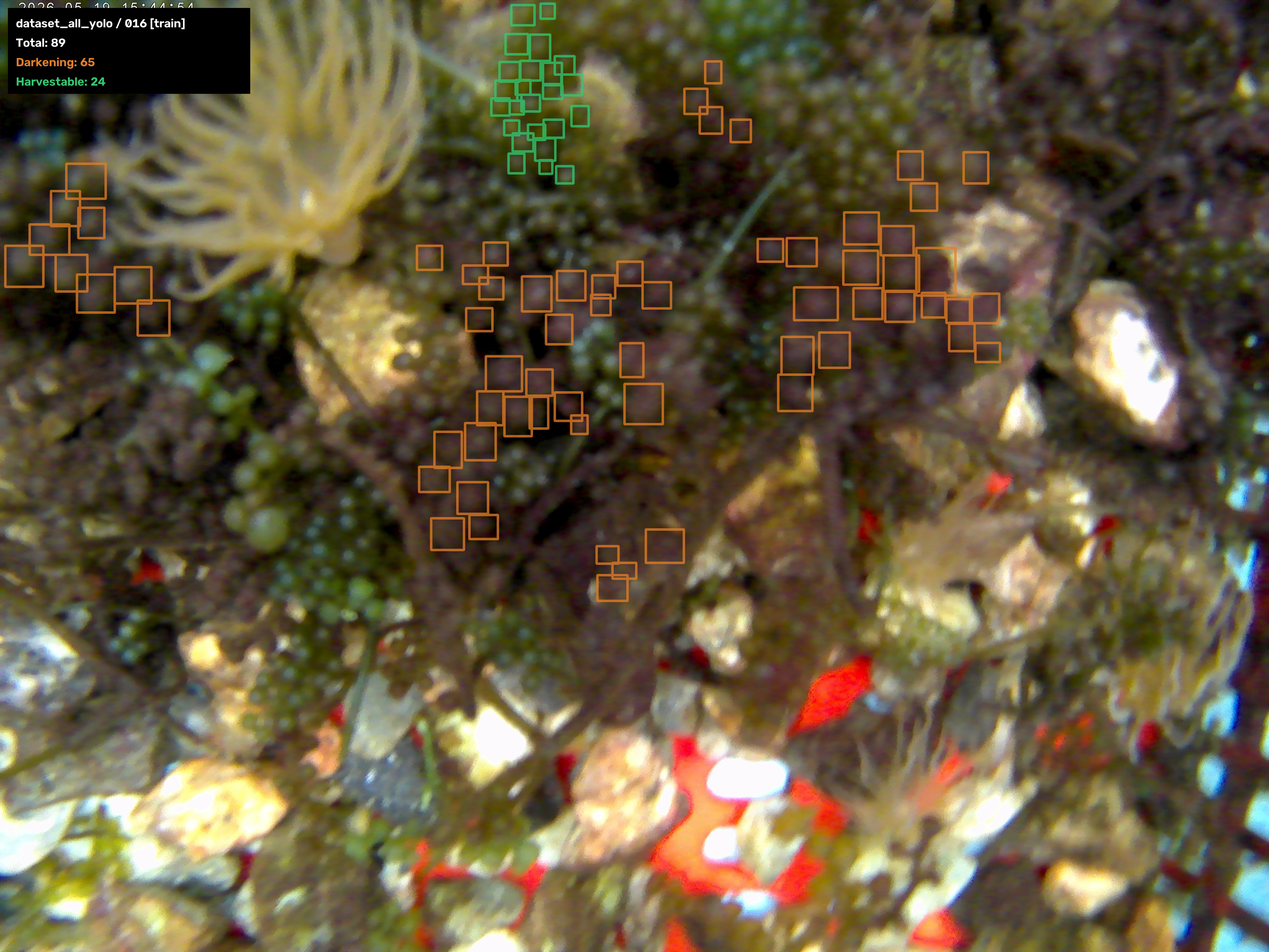
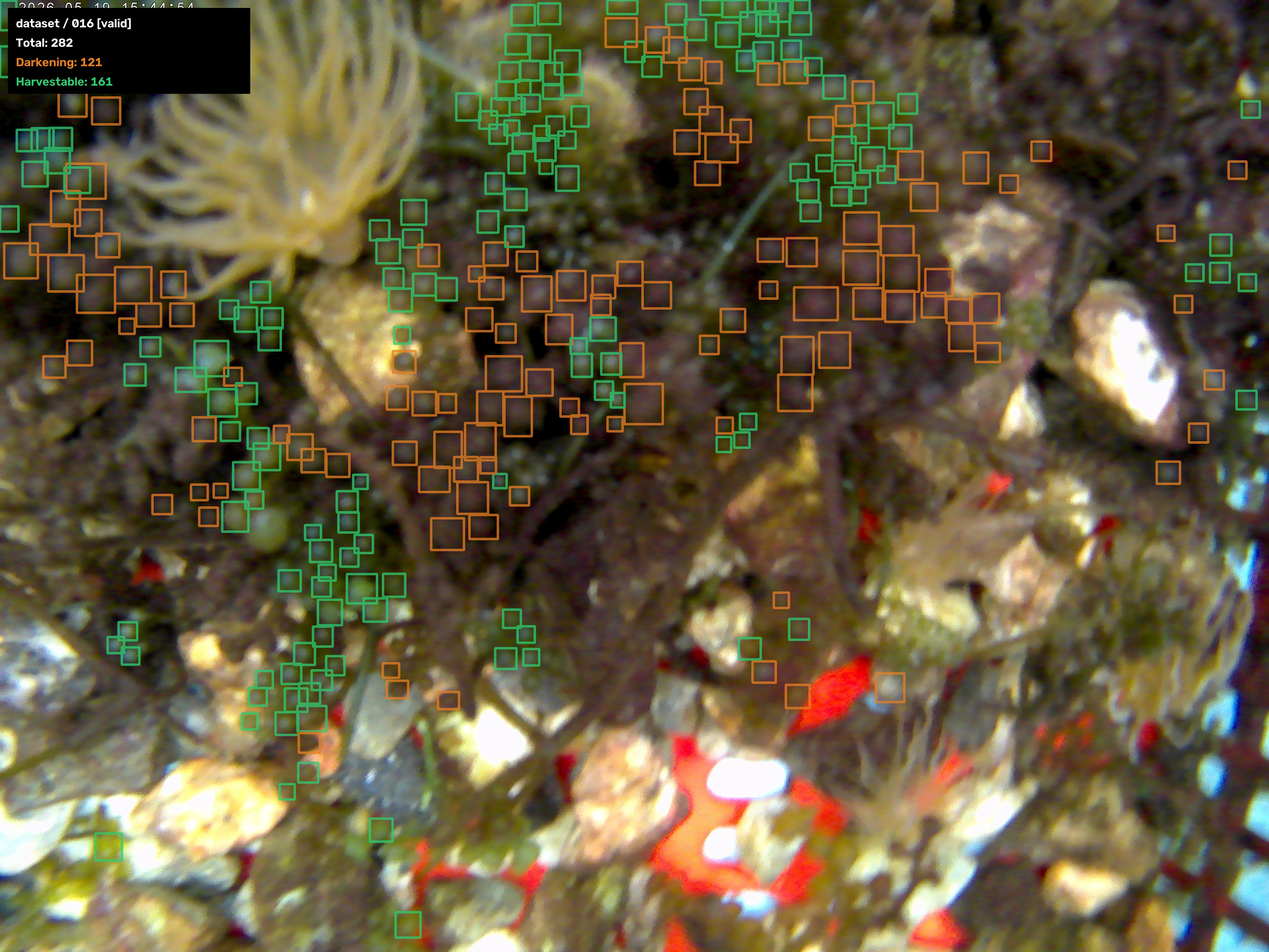
Update README.md

diff --git a/pipeline/03_train_detector.py b/pipeline/03_train_detector.py
@@ -1,5 +1,5 @@
 """
-Step 5: Train the stage-1 single-class sea grape detector on 640px tiles.
+Step 3: Train the stage-1 single-class sea grape detector on 640px tiles.
 
 yolo11s rather than yolo11n: tiles hold ~6-8 densely packed grapes and the nano
 backbone bottlenecks recall on small clustered objects. The extra cost is small

diff --git a/README.md b/README.md
@@ -2,39 +2,66 @@
 
 ### Example
 
-Original Image             |  Model Detection
+Image             |  Model Detection
 :-------------------------:|:-------------------------:
 ![](assets/raw_image.jpg)  |  ![](assets/detected_image.jpg)
 
-## Workflow
+## Navigation
+- [Project Workflow](#project-workflow)
+- [Development](#development)
+    - [1. Prepare Data](#1-prepare_data)
+    - [2. Process Data](#2-process-data)
+    - [3. Build Dataset for Classifier](#3-build-dataset-for-classifier)
+
+
+## Project Workflow
 
 ```mermaid
 graph TD;
-    image[Image] ==> yolo("`**YOLO** detect sea grapes`");
-    yolo e1@==> |Sea grapes at all stages of maturity| classifier("`**MobileNetV3** classify maturity of each sea grape`");
+    image[Image] --> yolo("`**YOLOv11s** detects sea grapes`");
+    yolo e1@--> |Sea grapes at all stages of maturity| classifier("`**MobileNetV3** classifies maturity of each sea grape`");
     e1@{ animation: fast }
-    classifier == Combine detection and classification ==> result[Predicted image with labels]
+    classifier -- Combine detection and classification --> result[Predicted image with labels]
 ```
 
-### 1. Data Preparation
+## Development
 
-The original dataset is missing many sea grape labels, which can confuse the model into treating real sea grapes as background.
+### 1. Prepare Data
 
-To address this, I trained a model on the original dataset and used it to pre-label the missing sea grapes, then manually reviewed and refined all annotations.
+**Problems**: The original dataset is missing many sea grape labels, which can confuse the model into treating real sea grapes as background.
+
+**Method**: I trained a model on the original dataset and used it to pre-label the missing sea grapes, then manually reviewed and refined all annotations.
 
 Original Data             |  Updated Data
 :-------------------------:|:-------------------------:
 ![](assets/original_data.jpg)  |  ![](assets/updated_data.jpg)
 
 
-### 2. Data Processing
+### 2. Process Data 
 
 > [pipeline/01_slice_tiles.py](pipeline/01_slice_tiles.py)
 
-**Problem**: 
+**Problems**: 
 - The dataset contains 4650x3480 images, which are quite big but blurry. 
 - Resizing them directly to YOLO's standard 640x640 input would shrink each grape (~80x79 px) down to roughly 11 px, making harder to detect.
 
-**Solve**: Each image is sliced into 640x640 tiles, matching YOLO's standard input size while preserving the grape's real pixel size.
+**Method**: Each image is sliced into 640x640 tiles, matching YOLO's standard input size while preserving the grape's real pixel size.
 
-### 3. 
+### 3. Build Dataset for Classifier
+
+> [pipeline/02_make_crops.py](pipeline/02_make_crops.py)
+
+**Purpose**: Build a classifier dataset from YOLO dataset format.
+
+**Methods**:
+- Extract each bounding box (one crop) with expanded 15% padding on each side from YOLO dataset
+    > 15% padding is to show the classifier the neighboring grapes. Maturity judgement partly relative to the neighbors, 
+- Split all bouding boxes (crops) into train/test/valid folders. 
+
+### 4. Train the Detector
+
+> [pipeline/03_train_detector.py](pipeline/03_train_detector.py)
+
+**Purpose**: Train a YOLOv11s model to detect sea grapes at all stages of maturity.
+
+**Methods**: 
